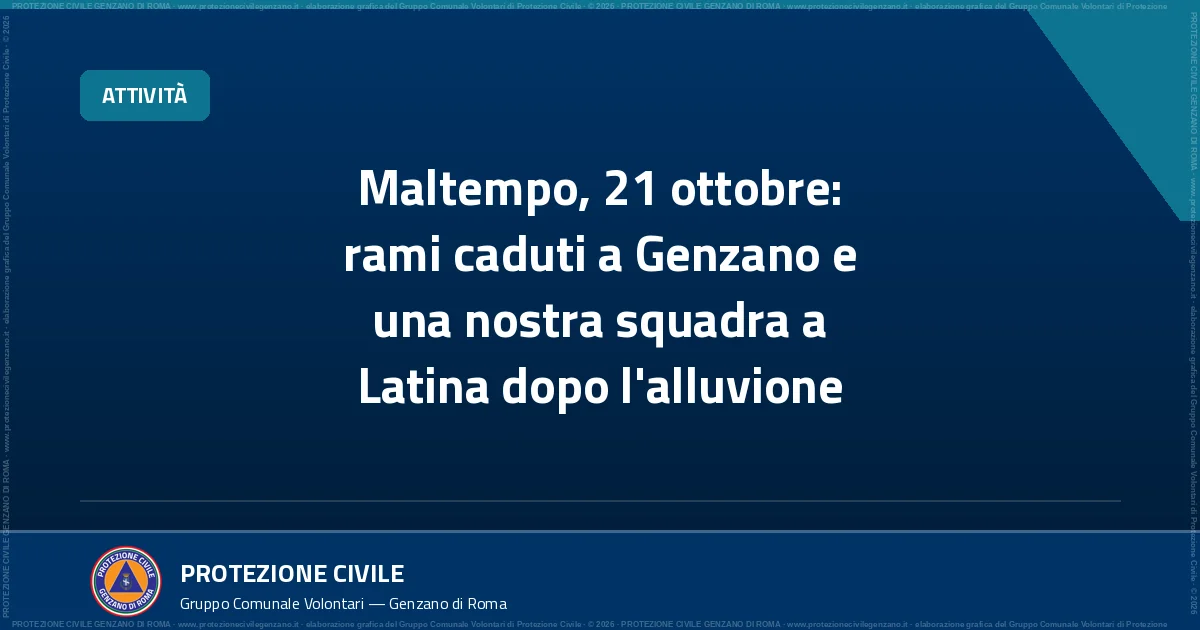
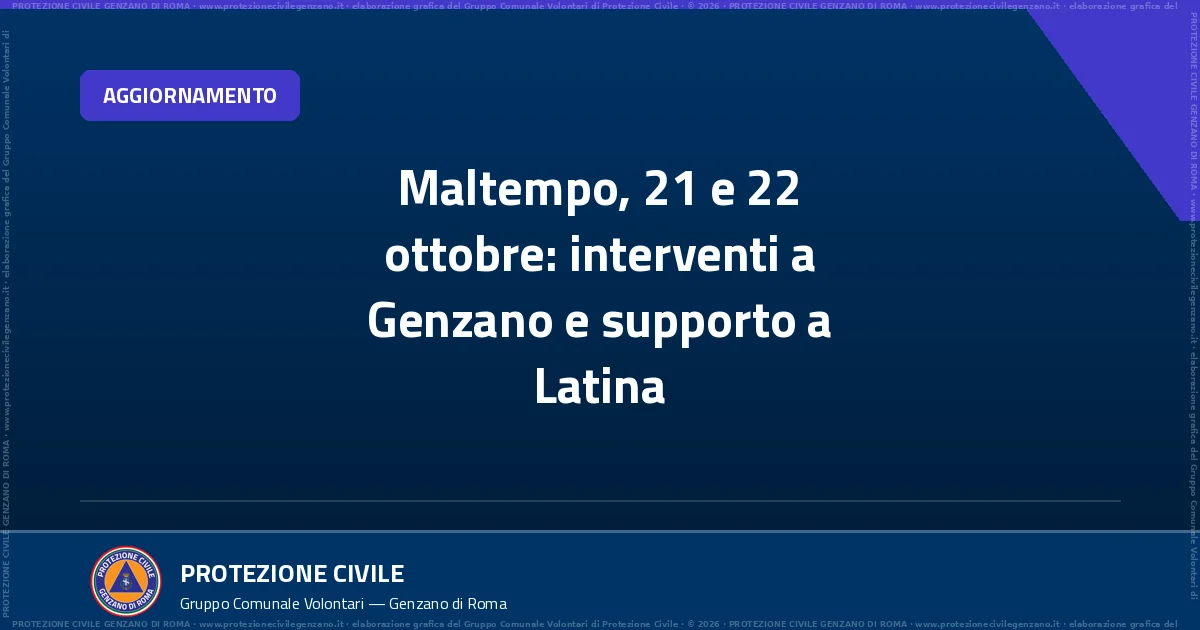
Aggiorna interventi e statistiche e prepara il Memorial Giordano Funari

diff --git a/content/comunicazioni/2026-10-21-maltempo-rami-genzano-volontari-alluvione-latina.md b/content/comunicazioni/2026-10-21-maltempo-rami-genzano-volontari-alluvione-latina.md
@@ -1,30 +1,31 @@
 ---
-title: "Maltempo, 21 ottobre: rami caduti a Genzano e una nostra squadra a Latina dopo l'alluvione"
+title: "Maltempo, 21 e 22 ottobre: interventi a Genzano e supporto a Latina"
 date: 2026-10-21T00:03:00+02:00
-description: "Mercoledì 21 ottobre tre interventi del Gruppo a Genzano per alberi e rami. Una nostra squadra a Latina, la città colpita dall'alluvione."
-badge: "Attività"
+lastmod: 2026-10-25
+description: "Il resoconto del 21 e 22 ottobre: quattro interventi per alberi e rami a Genzano e il supporto a Latina, con foto e video già pubblicati."
+badge: "Aggiornamento"
 priorita: "normale"
 autore: "Gruppo Comunale Volontari PC Genzano"
 image: "/images/2026-10-21-maltempo-rami-genzano-volontari-alluvione-latina.webp"
-image_alt: "Cover dell'articolo: Maltempo, 21 ottobre: rami caduti a Genzano e una nostra squadra a Latina dopo l'alluvione"
+image_alt: "Copertina: Maltempo, 21 e 22 ottobre, interventi a Genzano e supporto a Latina."
 scadenza: ""
-area: "Genzano di Roma"
+area: "Genzano di Roma e Latina"
 allegati: []
 draft: false
 tts: true
 lis_section: "allerte-meteo"
-social_citazione: "Mercoledì 21 ottobre il maltempo ci ha tenuti impegnati su due fronti."
+social_citazione: "Quattro interventi per alberi e rami a Genzano e il supporto a Latina nel resoconto del 21 e 22 ottobre."
 social_punti:
   - "Tre interventi del Gruppo a Genzano per alberi e rami: via Falcone, via Don Nazario Galieti e via Monte Giove."
-  - "Una nostra squadra a Latina con il Coordinamento FE.PI.VOL., su indicazione della Regione Lazio."
-  - "Con l'allerta gialla evita sottopassi e strade allagate e chiama il 112 per i pericoli."
+  - "Il 22 ottobre un intervento in via Roma e il servizio a Latina, coordinato dal Centro Operativo Comunale."
+  - "Statistiche aggiornate al 22 ottobre: 211 rapporti approvati dal 4 aprile e 870 presenze dei volontari."
 ---
 
-Mercoledì 21 ottobre il maltempo ci ha tenuti impegnati su due fronti. A Genzano il nostro registro conta **tre interventi** per alberi e rami. Nella stessa giornata una nostra squadra è partita per **Latina**, dove una pioggia eccezionale aveva allagato strade, case e scantinati.
+Tra il **21 e il 22 ottobre** il nostro registro conta **quattro interventi per alberi e rami a Genzano**. A questi si aggiunge il **servizio del 22 ottobre a Latina**, a sostegno della popolazione colpita dall'alluvione.
 
-Quel giorno Genzano e Latina erano entrambe in **allerta gialla** per criticità idrogeologica e idraulica, nella Zona F dei bollettini della Regione Lazio. Il livello in vigore oggi è sempre nella pagina [Allerte meteo](/allerte-meteo/).
+Questo articolo raccoglie il resoconto delle due giornate, con le foto e i video di Latina già pubblicati. Il livello di allerta in vigore oggi è nella pagina [Allerte meteo](/allerte-meteo/).
 
-## A Genzano: alberi e rami
+## Il 21 ottobre a Genzano: alberi e rami
 
 Poco dopo le 7 il Sindaco ci ha chiesto di intervenire in via Falcone, dove un **albero era caduto su un'auto**. Sul posto c'erano anche i Vigili del Fuoco del distaccamento di Velletri, che hanno rimosso il ramo, e la Polizia. La squadra è rimasta fino a dopo le 8.
 
@@ -34,18 +35,18 @@ Poco dopo mezzogiorno è arrivata la segnalazione di un **grosso ramo spezzato d
 
 ## A Latina, dopo l'alluvione
 
-Secondo le cronache locali, a Latina sono caduti circa 170 millimetri di pioggia in poche ore, contro i 50 previsti. L'acqua ha invaso strade, case, attività commerciali, scuole e il seminterrato dell'ospedale. Tra le zone più colpite c'era il quartiere Piccarello. Il Comune di Latina aveva attivato il Centro Operativo Comunale (COC) già il pomeriggio del 20 ottobre.
+Il rapporto approvato del **22 ottobre** documenta un servizio di **13 ore e mezza**, dalla mattina alla sera. La squadra è intervenuta su richiesta della Sala Operativa. A Latina si è messa a disposizione del **Centro Operativo Comunale (COC)**.
 
-Nel corso della mattina è partita anche una nostra squadra, con il pickup EVO Cross 4 e un'idrovora carrellata di proprietà della Regione Lazio, in dotazione al Gruppo. Dopo l'allerta della **Sala Operativa Unificata Permanente** (SOUP) della Regione, il **Coordinamento FE.PI.VOL.**, a cui il Gruppo aderisce, ha mobilitato su indicazione della Regione Lazio le associazioni dei territori non colpiti, per dare supporto ai volontari di Latina e dei comuni vicini. Con noi c'erano, tra gli altri, i volontari del Gruppo comunale di Albano Laziale. Secondo le cronache locali, a Latina operavano anche le squadre comunali di Lanuvio e Velletri e associazioni di Ardea e di Anzio. Le squadre hanno lavorato con idrovore e motopompe in abitazioni, scantinati, edifici pubblici, locali commerciali e strade, insieme ai Vigili del Fuoco e alle forze dell'ordine. A tarda sera le operazioni proseguivano ancora.
+Il primo intervento ha riguardato una struttura sportiva allagata. Il secondo ha interessato un edificio con palestra e altri locali. I volontari hanno lavorato con l'idrovora insieme ai **Vigili del Fuoco**. Sono rimasti disponibili per le necessità nelle aree vicine.
 
-Il presidente della Regione Lazio, Francesco Rocca, in un messaggio sui suoi profili social ha ringraziato gli operatori e i volontari della protezione civile per il lavoro che stanno svolgendo a Latina accanto alle persone colpite dal maltempo, e ha espresso vicinanza alle famiglie e alle attività che hanno subito danni.
+Il mezzo indicato nel registro è l'**EVO Cross 4 Pickup** del Gruppo.
 
 Tra gli interventi, la nostra squadra ha lavorato allo svuotamento di una palestra e dei suoi locali interrati, invasi da acqua e fango. L'acqua aspirata veniva portata in strada con una lunga manichetta.
 
 {{< galleria titolo="La nostra squadra a Latina" >}}
 {{< foto src="/images/2026-10-21-latina-pickup-idrovora-parcheggio.webp"
          alt="Pickup bianco con bande gialla e blu e la scritta Protezione Civile e, davanti, un carrello con un'idrovora bianca, i tubi e la scritta Regione Lazio Dipartimento Ambiente Protezione Civile, in un parcheggio con il sole basso all'orizzonte. Sullo sfondo un camion, un'autocisterna, pini e altre auto."
-         caption="Il pickup EVO Cross 4 del Gruppo con il carrello dell'idrovora, il 21 ottobre. Foto: Gruppo Comunale Volontari di Protezione Civile di Genzano di Roma." >}}
+         caption="Il pickup EVO Cross 4 del Gruppo con il carrello dell'idrovora. Foto: Gruppo Comunale Volontari di Protezione Civile di Genzano di Roma." >}}
 {{< foto src="/images/2026-10-21-latina-idrovora-carrellata-cortile.webp"
          alt="Un carrello bianco con un'idrovora e la scritta Regione Lazio Dipartimento Ambiente Protezione Civile, in un cortile asfaltato fra una siepe e una ringhiera. Più avanti il pickup di protezione civile e, in lontananza, due volontari con pantaloni rossi a bande riflettenti; sullo sfondo palazzine color mattone."
          caption="L'idrovora sul carrello, posizionata nel cortile. Foto: Gruppo Comunale Volontari di Protezione Civile di Genzano di Roma." >}}
@@ -98,13 +99,23 @@ I due video, girati con la torcia, mostrano i locali interni della palestra somm
           titolo="Video senza audio: i locali interrati sommersi dall'acqua"
           caption="Video senza audio. Corridoi e stanze dei locali interrati, ripresi con la torcia, sono sommersi dall'acqua torbida; più avanti si vede un volontario che li attraversa. Video: Gruppo Comunale Volontari di Protezione Civile di Genzano di Roma." >}}
 
-Quando un territorio colpito ha bisogno di rinforzi, la Regione chiede aiuto alle organizzazioni di volontariato dei territori vicini, che arrivano anche attraverso i loro coordinamenti. È così che funziona il Servizio nazionale della protezione civile: ognuno interviene sul proprio territorio e, quando serve, va a dare una mano agli altri.
+## Il 22 ottobre a Genzano: un ramo in via Roma
+
+Nel pomeriggio una squadra è intervenuta in **via Roma**, per un ramo tra una recinzione e il marciapiede. Il servizio, svolto con il **Fiat Doblò**, è durato circa mezz'ora.
+
+## Le statistiche aggiornate
+
+Dal **4 aprile al 22 ottobre 2026** risultano **211 rapporti approvati**, per **618,3 ore di intervento** e **10.642 chilometri percorsi**. Le presenze complessive dei volontari sono **870** e riguardano **33 volontari con almeno un intervento**.
+
+Le presenze contano ogni partecipazione: una stessa persona può essere presente in più interventi. I dati sono provvisori e partono dall'adozione del gestionale ad aprile; non rappresentano l'intero anno.
+
+Gli aggregati, le tipologie, l'impiego dei mezzi e i grafici sono nella pagina [Open data](/open-data/).
 
 ## Cosa impariamo
 
-- **L'allerta gialla non vuol dire che non succederà niente.** Il 21 ottobre la previsione era di allerta gialla, ma secondo le cronache locali a Latina in poche ore è caduta molta più pioggia di quella prevista. Il colore indica la criticità attesa, non il massimo possibile: [Allerte meteo](/allerte-meteo/).
+- **Le allerte aiutano a prepararsi.** Per conoscere la situazione in vigore, consulta [Allerte meteo](/allerte-meteo/) e gli avvisi delle autorità.
 - **Con piogge molto intense si allagano per primi sottopassi, scantinati e piani interrati.** Con l'allerta in corso non si scende nei locali sotto il livello della strada: [rischio idrogeologico](/rischi-prevenzione/rischio-idrogeologico/).
-- **Con il maltempo cadono alberi e rami, anche in città.** A Genzano tutti e tre gli interventi riguardavano questo: strade e un percorso pedonale da liberare. Con il vento forte ci si tiene lontani dagli alberi: [vento forte](/rischi-prevenzione/vento-forte/).
+- **Con il maltempo cadono alberi e rami, anche in città.** I quattro interventi di Genzano riguardavano questo pericolo. Con il vento forte ci si tiene lontani dagli alberi: [vento forte](/rischi-prevenzione/vento-forte/).
 
 ## Cosa puoi fare tu
 
@@ -126,6 +137,8 @@ Il Gruppo Comunale non può essere attivato direttamente dai cittadini. In emerg
 
 **Fonti istituzionali:**
 
+- Registro degli interventi del Gruppo: rapporti approvati del 21 e 22 ottobre, dal 208 al 212/2026. Dati aggregati nella pagina [Open data](/open-data/).
+- [Dipartimento della Protezione Civile — In caso di alluvione](https://www.protezionecivile.gov.it/it/approfondimento/in-caso-di-alluvione/)
 - [Regione Lazio — Bollettini e allertamenti](https://www.regione.lazio.it/protezione-civile/bollettini-allertamenti)
 - [Regione Lazio — Bollettino di criticità del 21 ottobre 2026 (PDF)](https://www.regione.lazio.it/sites/default/files/criticita-idrogeologica/2026/bollettino_21_10_2026.pdf)
 
@@ -137,3 +150,5 @@ Il Gruppo Comunale non può essere attivato direttamente dai cittadini. In emerg
 - [Il Messaggero — Latina, ancora al lavoro i soccorritori: allagate una palestra, una discoteca e altre attività](https://www.ilmessaggero.it/latina/latina_ancora_al_lavoro_protezione_civile_vigili_fuoco_completamente_allagati_la_discoteca_24_000_baci_altre_attivita_commerciali_adiacenti-9842025.html)
 - [TusciaTimes — Maltempo, Rocca: «Grazie alla protezione civile per l'impegno al fianco dei cittadini di Latina»](https://www.tusciatimes.eu/maltempo-rocca-grazie-alla-protezione-civile-per-limpegno-al-fianco-dei-cittadini-di-latina/)
 - [Radio Cassino — Latina, il maltempo provoca centinaia di allagamenti](https://radiocassino.it/latina-maltempo-provoca-centinaia-di-allagamenti-danni-e-disagi-protezione-civile-in-campo/)
+
+*Aggiornamento del 25 ottobre 2026: integrati i rapporti approvati del 22 ottobre e le statistiche. La data del servizio a Latina segue il registro. Restano disponibili le foto e i video già pubblicati.*

diff --git a/content/comunicazioni/2026-10-24-memorial-giordano-funari-genzano.md b/content/comunicazioni/2026-10-24-memorial-giordano-funari-genzano.md
@@ -1,0 +1,47 @@
+---
+title: "Memorial Giordano Funari: il Gruppo in piazza Frasconi"
+date: 2026-10-24T00:06:00+02:00
+description: "I volontari del Gruppo al terzo Memorial Giordano Funari, sabato 24 ottobre in piazza Frasconi a Genzano, insieme alla famiglia e agli amici."
+badge: "Evento"
+priorita: "normale"
+autore: "Gruppo Comunale Volontari PC Genzano"
+image: "/images/2026-10-24-memorial-giordano-funari-genzano.webp"
+image_alt: "Copertina dell'articolo sul Memorial Giordano Funari a Genzano."
+scadenza: ""
+area: "Genzano di Roma"
+allegati: []
+draft: false
+tts: true
+social_citazione: "In piazza Frasconi, insieme alla famiglia e agli amici, per ricordare Giordano Funari."
+social_punti:
+  - "Sabato 24 ottobre 2026 il terzo Memorial Giordano Funari a Genzano."
+  - "Presenti anche i volontari del Gruppo Comunale di Protezione Civile."
+  - "Un pomeriggio di incontro e ricordo con la famiglia, gli amici e il Vespa Club Lanuvio-Campoleone."
+---
+
+Sabato **24 ottobre 2026** i nostri volontari hanno partecipato al **terzo Memorial Giordano Funari**. In **piazza Frasconi a Genzano** si sono ritrovati familiari, amici e appassionati delle due ruote, per ricordarlo.
+
+## I volontari in piazza
+
+{{< foto src="/images/2026-10-24-memorial-giordano-funari-volontari-foto.webp"
+         alt="Sette volontari del Gruppo, con le uniformi rosse e blu, posano insieme in piazza Frasconi. Sullo sfondo una piattaforma aerea solleva uno striscione."
+         caption="I volontari in piazza Frasconi per il Memorial Giordano Funari del 24 ottobre 2026. Foto fornita dal Gruppo." >}}
+
+La fotografia raccoglie un momento della presenza del Gruppo alla manifestazione. Sullo sfondo si vede lo striscione sollevato sulla piattaforma aerea.
+
+## Il ricordo condiviso
+
+La famiglia e il **Vespa Club Lanuvio-Campoleone** hanno riunito chi ha conosciuto Giordano. All'incontro hanno partecipato anche amici e colleghi di lavoro.
+
+Tutti noi del Gruppo rivolgiamo un pensiero affettuoso alla famiglia e agli amici.
+
+## Per approfondire
+
+**Sul nostro sito:**
+
+- [Chi siamo](/chi-siamo/)
+- [Le attività del Gruppo](/comunicazioni/)
+
+**La cronaca dell'iniziativa:**
+
+- [Il Giornale dei Castelli Romani — Il terzo Memorial Giordano Funari a Genzano](https://www.giornaleinfocastelliromani.it/genzano-in-tanti-al-memorial-giordano-funari-per-ricordare-il-ragazzo-scomparso-a-soli-30-anni-per-un-malore-improvviso/)

diff --git a/COORDINAMENTO.md b/COORDINAMENTO.md
@@ -149,6 +149,8 @@ Domande fra le sessioni (o per Alessandro). Chi la legge risponde accanto, alla 
 
 Consegne di fine sessione: che cosa resta a metà, su quale ramo, in quale PR.
 
+- **25/10/2026 — ChatGPT, aggiornamento interventi e Memorial Giordano Funari.** Ramo `chatgpt/interventi-20261025`, PR da aprire. Export cumulativo: 211 rapporti approvati fino al 212/2026 del 22 ottobre; escluse le bozze 213 e 214 e le loro sei presenze. Rigenerazione degli aggregati, integrazione del resoconto già esistente di Genzano/Latina senza duplicarlo, articolo del Memorial con la foto fornita da Alessandro ritagliata. Prossimo passo: controlli editoriali e tecnici, una sola PR. Il Memorial non è nel registro: non aggiungerlo alle statistiche e applicare la verifica prevista per i fatti della stampa.
+
 
 ## Richieste
 
